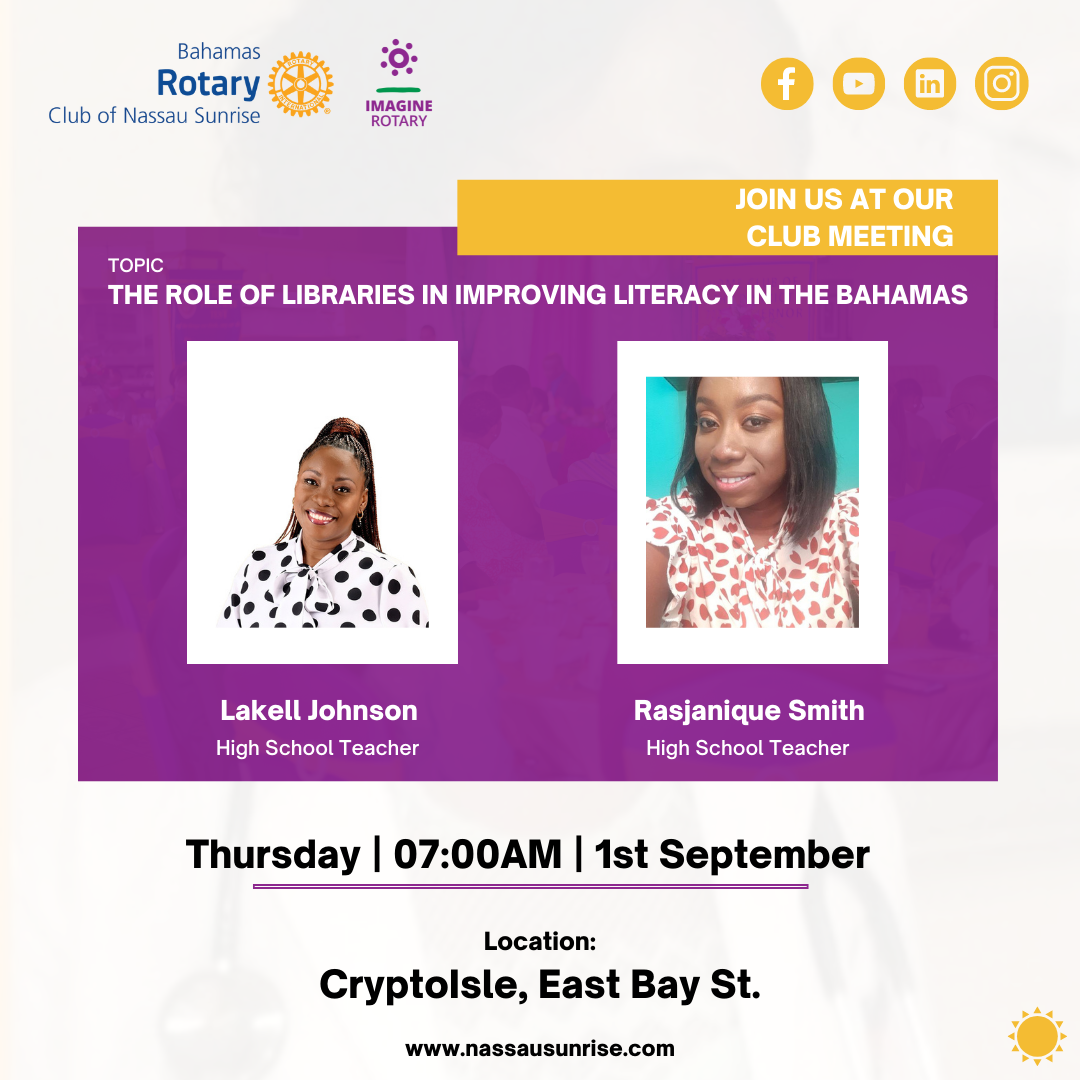
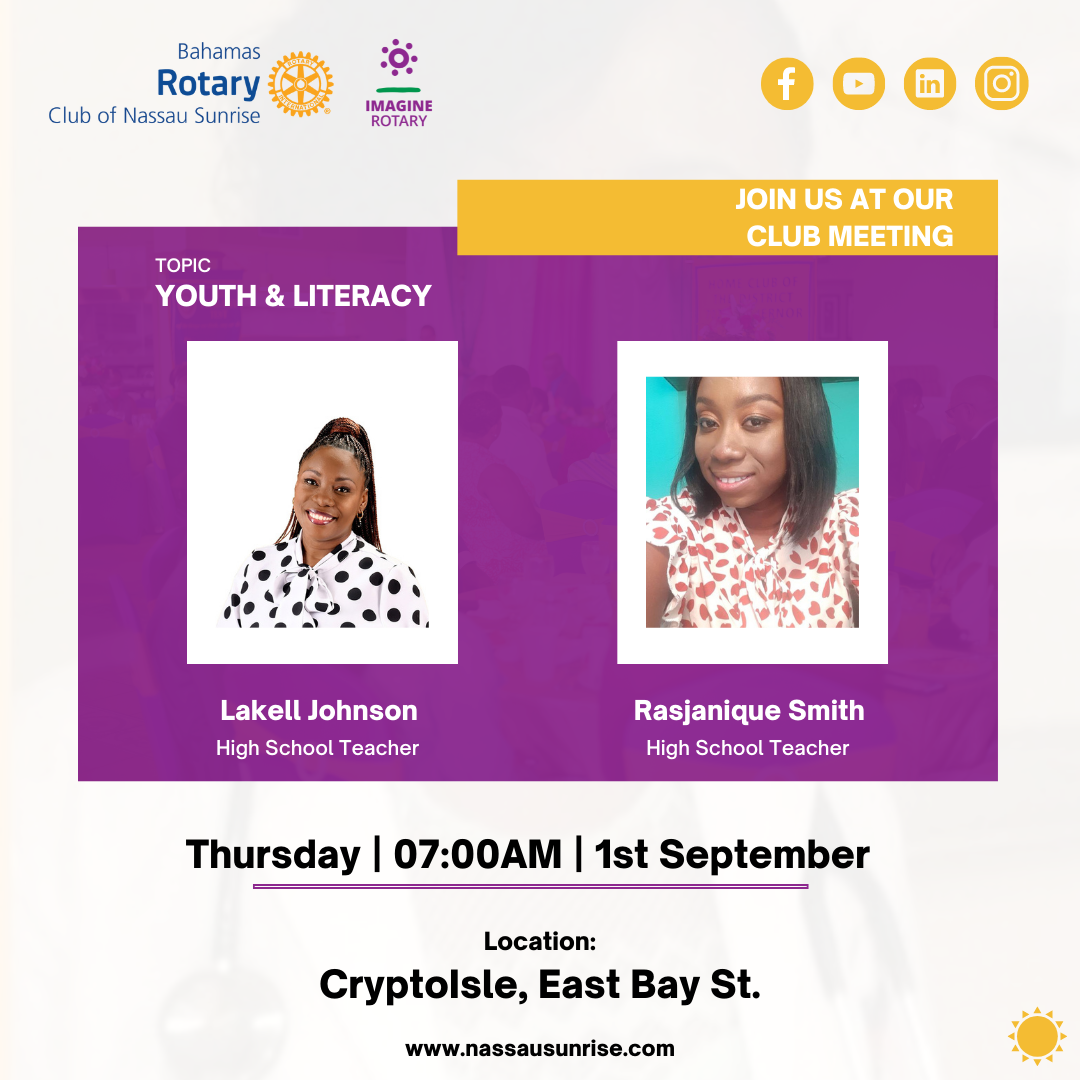
updated flyer

Changed region(s): [[0.0917, 0.2139, 0.8861, 0.3056]]

diff --git a/index.html b/index.html
@@ -75,8 +75,7 @@
 
                             <p>
                                 Join us this week at CryptoIsle, East Bay St.
-                                7:00AM for our topic The Role of Libraries in
-                                Improving Literacy in The Bahamas.
+                                7:00AM for our topic Youth & Literacy.
                             </p>
 
                             <br />
